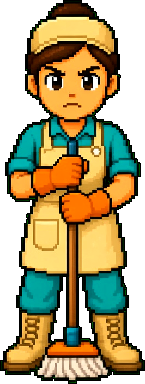
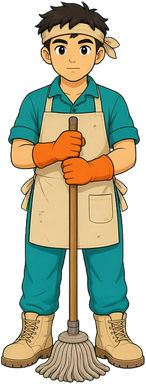
Smooth thick-outline battle art for 怪奇撤离 (#23)
Replace characters, enemies, and the 5×5 Style E upgrade sheet with anti-aliased thick black outlines, and turn canvas image smoothing on so battle sprites stay smooth.

diff --git a/guaiqi-evacuate/js/sprites.js b/guaiqi-evacuate/js/sprites.js
@@ -129,7 +129,7 @@ function sliceIconSheet(img) {
       const cell = document.createElement('canvas');
       cell.width = side; cell.height = side;
       const ctx = cell.getContext('2d');
-      ctx.imageSmoothingEnabled = false;
+      ctx.imageSmoothingEnabled = true;
       if ('webkitImageSmoothingEnabled' in ctx) ctx.webkitImageSmoothingEnabled = false;
       if ('mozImageSmoothingEnabled' in ctx) ctx.mozImageSmoothingEnabled = false;
       const ox = Math.floor((side - cw) / 2);
@@ -324,9 +324,9 @@ export function drawClippedSprite(ctx, img, x, y, radius, opts = {}) {
 
   ctx.save();
   applyWalk(ctx, opts.walk, x, dy + dh * 0.94); // pivot near the feet
-  ctx.imageSmoothingEnabled = false;
-  if ('webkitImageSmoothingEnabled' in ctx) ctx.webkitImageSmoothingEnabled = false;
-  if ('mozImageSmoothingEnabled' in ctx) ctx.mozImageSmoothingEnabled = false;
+  ctx.imageSmoothingEnabled = true;
+  if ('webkitImageSmoothingEnabled' in ctx) ctx.webkitImageSmoothingEnabled = true;
+  if ('mozImageSmoothingEnabled' in ctx) ctx.mozImageSmoothingEnabled = true;
   ctx.drawImage(img, 0, 0, iw, ih, dx, dy, dw, dh);
   // Tint / hit flash are drawn as a silhouette of the sprite itself (no rectangular box)
   if (opts.tint) {
@@ -367,9 +367,9 @@ export function drawStandingSprite(ctx, img, x, footY, h, opts = {}) {
   ctx.fill();
   // r6: front-facing art — never mirrored; movement reads through the walk pose instead
   applyWalk(ctx, opts.walk, x, footY);
-  ctx.imageSmoothingEnabled = false;
-  if ('webkitImageSmoothingEnabled' in ctx) ctx.webkitImageSmoothingEnabled = false;
-  if ('mozImageSmoothingEnabled' in ctx) ctx.mozImageSmoothingEnabled = false;
+  ctx.imageSmoothingEnabled = true;
+  if ('webkitImageSmoothingEnabled' in ctx) ctx.webkitImageSmoothingEnabled = true;
+  if ('mozImageSmoothingEnabled' in ctx) ctx.mozImageSmoothingEnabled = true;
   ctx.drawImage(img, 0, 0, iw, ih, dx, dy, dw, dh);
   if (opts.tint) {
     ctx.globalAlpha = opts.tintAlpha ?? 0.22;

diff --git a/guaiqi-evacuate/js/game.js b/guaiqi-evacuate/js/game.js
@@ -56,7 +56,7 @@ export class Game {
     canvas.width = W * dpr;
     canvas.height = H * dpr;
     this.ctx.setTransform(dpr, 0, 0, dpr, 0, 0);
-    this.ctx.imageSmoothingEnabled = false;
+    this.ctx.imageSmoothingEnabled = true;
     if ('webkitImageSmoothingEnabled' in this.ctx) this.ctx.webkitImageSmoothingEnabled = false;
     if ('mozImageSmoothingEnabled' in this.ctx) this.ctx.mozImageSmoothingEnabled = false;
     this.hooks = hooks;
@@ -1168,10 +1168,10 @@ export class Game {
     ctx.scale(VIEW_ZOOM, VIEW_ZOOM);
     ctx.translate(-W / 2, -H / 2);
     ctx.translate(-this.camX + off.x, -this.camY + off.y);
-    // Crisp nearest-neighbor for world sprites (Style E pixels); HUD re-enables after restore
-    ctx.imageSmoothingEnabled = false;
-    if ('webkitImageSmoothingEnabled' in ctx) ctx.webkitImageSmoothingEnabled = false;
-    if ('mozImageSmoothingEnabled' in ctx) ctx.mozImageSmoothingEnabled = false;
+    // Smooth bilinear for thick anti-aliased outlines; HUD stays true after restore
+    ctx.imageSmoothingEnabled = true;
+    if ('webkitImageSmoothingEnabled' in ctx) ctx.webkitImageSmoothingEnabled = true;
+    if ('mozImageSmoothingEnabled' in ctx) ctx.mozImageSmoothingEnabled = true;
 
     this._drawFloor(ctx, FLOOR);
 

diff --git a/guaiqi-evacuate/css/style.css b/guaiqi-evacuate/css/style.css
@@ -279,8 +279,7 @@ html, body {
 #game-wrap { background: #1a2218; justify-content: flex-start; }
 #game {
   display: block; width: 100%; height: 100%; touch-action: none;
-  image-rendering: pixelated;
-  image-rendering: crisp-edges;
+  image-rendering: auto;
 }
 .hud {
   position: absolute; top: 0; left: 0; right: 0;
@@ -431,6 +430,7 @@ html, body {
 .card-icon img, .card-icon canvas {
   width: 100%; height: 100%; object-fit: contain;
   padding: 4px;
+  image-rendering: auto;
 }
 .card-body { flex: 1; display: flex; flex-direction: column; justify-content: center; min-width: 0; }
 .card-body h3 {
@@ -1047,9 +1047,12 @@ html, body {
   pointer-events: none;
 }
 
-/* Crisp nearest-neighbor when CSS scales pixel-art icons / canvas thumbs */
+/* Smooth CSS upscale for battle canvas + card icons (thick AA outlines).
+   Other small UI thumbs stay nearest-neighbor until their sheets are redrawn. */
 #game,
-.card-icon img, .card-icon canvas,
+.card-icon img, .card-icon canvas {
+  image-rendering: auto;
+}
 .equip-slot img, .equip-slot canvas,
 .hub-btn img,
 .char-thumb img, .stage-thumb img,
